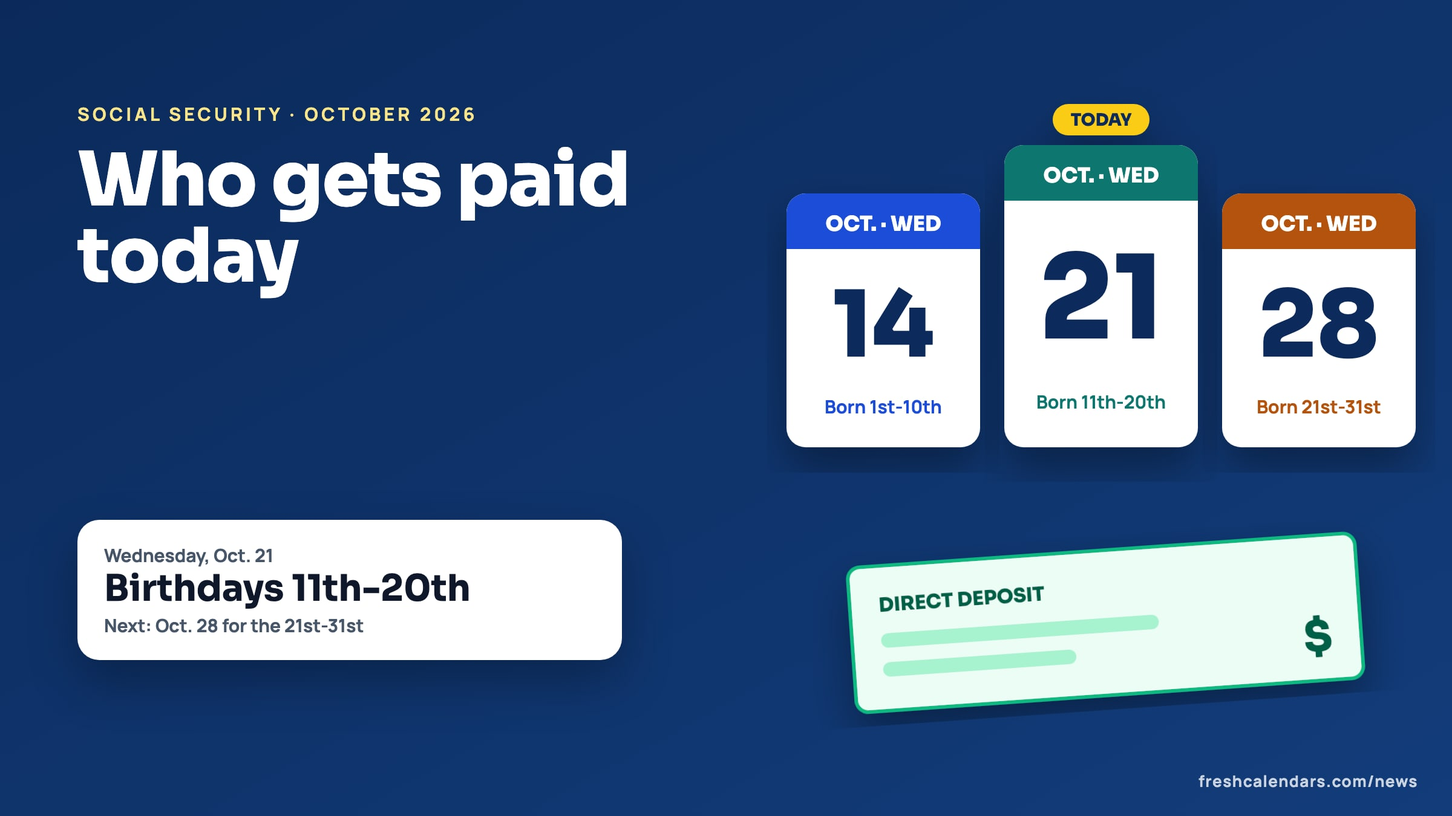
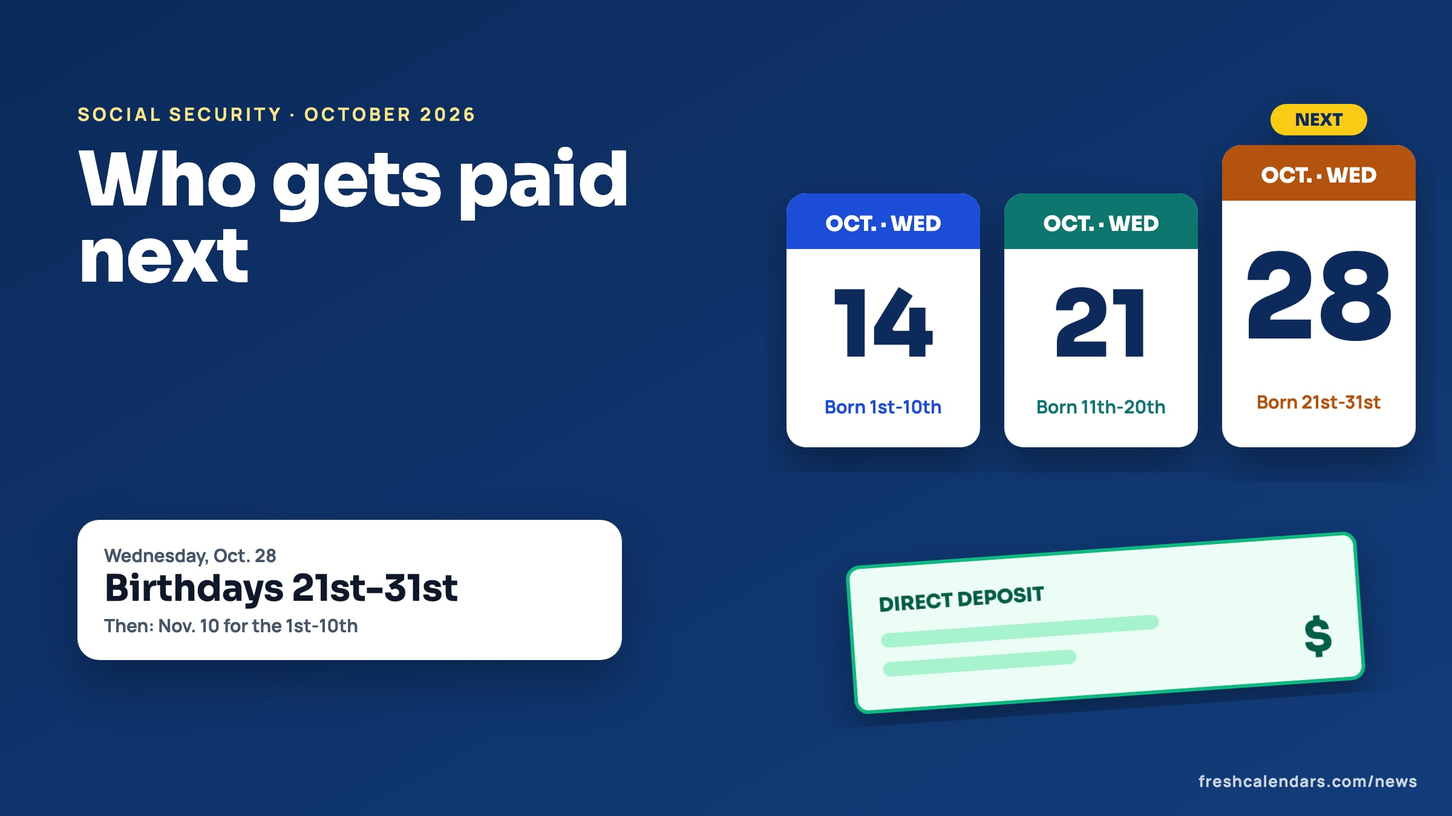
feat(news): refresh stale stories, link orphans, in-body calendar links
- Social Security payment schedule leads with the next payday (Oct. 28): new
  title, lede, summary, FAQ and hero; all dates rechecked against SSA
  Publication 05-10031 (2026 schedule).
- Orionids: title no longer says "tonight"; active through Nov. 7 and next
  showers (NASA Science Orionids/Leonids/Geminids pages).
- Voter registration Oct. 19, MCAT 2027 and GTA 6 Oct. 22 get update notes
  (Texas SOS, Michigan SOS, NYS BOE, AAMC, Rockstar Newswire, Take-Two/Business
  Wire Oct. 13). Recheck GTA 6 after Rockstar's daytime posts on Oct. 22.
- Orphan stories (punch recipe, turkey thaw, early voting now) linked from
  related stories; contextual calendar links in 10 stories.
- keydates: drop past dates, add Lyft VOTE26, Northern Taurids, turkey thaw,
  USPS international and ACA end dates from published stories.

diff --git a/packages/generator/src/ssa2026.ts b/packages/generator/src/ssa2026.ts
@@ -64,9 +64,11 @@ function sheet(fonts: string): string {
 }
 
 const W = 1200, H = 675;
+/** Raised card in the hero: the next payday. Oct. 22 update moved it from Oct. 21 (index 1) to Oct. 28. */
+const NEXT = 2;
 function hero(fonts: string): string {
   const days = [["WED", "14", "Born 1st-10th", "#1d4ed8"], ["WED", "21", "Born 11th-20th", "#0f766e"], ["WED", "28", "Born 21st-31st", "#b45309"]];
-  const cards = days.map(([w, d, l, c], i) => `<g transform="translate(${650 + i * 180},${i === 1 ? 120 : 160})" filter="url(#sh)"><rect width="160" height="${i === 1 ? 250 : 210}" rx="16" fill="#fff"/><rect width="160" height="46" rx="16" fill="${c}"/><rect y="30" width="160" height="16" fill="${c}"/><text x="80" y="31" font-family="Sora" font-size="17" font-weight="800" fill="#fff" text-anchor="middle">OCT. · ${w}</text><text x="80" y="${i === 1 ? 160 : 135}" font-family="Sora" font-size="${i === 1 ? 96 : 76}" font-weight="800" fill="#0b2a5b" text-anchor="middle">${d}</text><text x="80" y="${i === 1 ? 218 : 182}" font-family="Manrope" font-size="15" font-weight="800" fill="${c}" text-anchor="middle">${l}</text>${i === 1 ? `<rect x="40" y="-34" width="80" height="26" rx="13" fill="#facc15"/><text x="80" y="-16" font-family="Sora" font-size="14" font-weight="800" fill="#0b2a5b" text-anchor="middle">TODAY</text>` : ""}</g>`).join("");
+  const cards = days.map(([w, d, l, c], i) => `<g transform="translate(${650 + i * 180},${i === NEXT ? 120 : 160})" filter="url(#sh)"><rect width="160" height="${i === NEXT ? 250 : 210}" rx="16" fill="#fff"/><rect width="160" height="46" rx="16" fill="${c}"/><rect y="30" width="160" height="16" fill="${c}"/><text x="80" y="31" font-family="Sora" font-size="17" font-weight="800" fill="#fff" text-anchor="middle">OCT. · ${w}</text><text x="80" y="${i === NEXT ? 160 : 135}" font-family="Sora" font-size="${i === NEXT ? 96 : 76}" font-weight="800" fill="#0b2a5b" text-anchor="middle">${d}</text><text x="80" y="${i === NEXT ? 218 : 182}" font-family="Manrope" font-size="15" font-weight="800" fill="${c}" text-anchor="middle">${l}</text>${i === NEXT ? `<rect x="40" y="-34" width="80" height="26" rx="13" fill="#facc15"/><text x="80" y="-16" font-family="Sora" font-size="14" font-weight="800" fill="#0b2a5b" text-anchor="middle">NEXT</text>` : ""}</g>`).join("");
   const check = `<g transform="translate(700,470) rotate(-4)" filter="url(#sh)"><rect width="420" height="120" rx="10" fill="#ecfdf5"/><rect width="420" height="120" rx="10" fill="none" stroke="#10b981" stroke-width="3" stroke-dasharray="2 0"/><text x="24" y="38" font-family="Sora" font-size="16" font-weight="800" fill="#065f46">DIRECT DEPOSIT</text><rect x="24" y="56" width="230" height="12" rx="6" fill="#a7f3d0"/><rect x="24" y="80" width="160" height="12" rx="6" fill="#a7f3d0"/><text x="396" y="96" font-family="Sora" font-size="36" font-weight="800" fill="#065f46" text-anchor="end">$</text></g>`;
   return `<!doctype html><html><head><meta charset="utf-8"><style>${fonts}*{box-sizing:border-box}html,body{margin:0}body{width:${W}px;height:${H}px;overflow:hidden;background:#0b2a5b;font-family:Manrope,sans-serif;position:relative}
   .k{position:absolute;left:64px;top:84px;font-weight:800;font-size:15px;letter-spacing:.18em;text-transform:uppercase;color:#fde68a}
@@ -75,8 +77,8 @@ function hero(fonts: string): string {
   .card b{display:block;font-family:Sora;font-size:30px;line-height:1.05;margin:2px 0}.card span{font-size:15px;color:#475569;font-weight:700}
   .brand{position:absolute;right:28px;bottom:20px;font-size:13px;font-weight:700;letter-spacing:.06em;color:rgba(255,255,255,.78)}</style></head><body>
   <svg width="${W}" height="${H}" style="position:absolute;inset:0"><defs><filter id="sh"><feDropShadow dx="0" dy="18" stdDeviation="18" flood-opacity=".35"/></filter><linearGradient id="bg" x1="0" y1="0" x2="1" y2="1"><stop offset="0" stop-color="#0b2a5b"/><stop offset="1" stop-color="#123c7a"/></linearGradient></defs><rect width="${W}" height="${H}" fill="url(#bg)"/>${cards}${check}</svg>
-  <div class="k">Social Security · October 2026</div><div class="t">Who gets paid today</div>
-  <div class="card"><span>Wednesday, Oct. 21</span><b>Birthdays 11th-20th</b><span>Next: Oct. 28 for the 21st-31st</span></div>
+  <div class="k">Social Security · October 2026</div><div class="t">Who gets paid next</div>
+  <div class="card"><span>Wednesday, Oct. 28</span><b>Birthdays 21st-31st</b><span>Then: Nov. 10 for the 1st-10th</span></div>
   <div class="brand">freshcalendars.com/news</div></body></html>`;
 }
 

diff --git a/apps/news/src/lib/keydates.ts b/apps/news/src/lib/keydates.ts
@@ -12,9 +12,6 @@ export interface KeyDate {
 }
 
 export const KEY_DATES: KeyDate[] = [
-  { date: "2026-10-19", label: "Voter registration deadline in California, Pennsylvania and Michigan", slug: "voter-registration-deadline-october-19-2026-early-voting" },
-  { date: "2026-10-21", label: "Orionid meteor shower peaks, night of Oct. 21-22", slug: "orionid-meteor-shower-2026-peak-october-21-22" },
-  { date: "2026-10-21", label: "Social Security payday: birthdays 11th-20th", slug: "social-security-payment-schedule-october-2026-who-gets-paid-today" },
   { date: "2026-10-28", label: "Social Security payday: birthdays 21st-31st", slug: "social-security-payment-schedule-october-2026-who-gets-paid-today" },
   { date: "2026-11-10", label: "Social Security paid a day early (Veterans Day)", slug: "social-security-payment-schedule-october-2026-who-gets-paid-today" },
   { date: "2026-10-25", label: "Clocks go back in the UK and Europe", slug: "uk-europe-clocks-go-back-october-25-2026-time-difference" },
@@ -47,7 +44,6 @@ export const KEY_DATES: KeyDate[] = [
   { date: "2027-02-06", label: "Lunar New Year, Year of the Goat", slug: "lunar-new-year-2027-year-of-the-goat" },
   { date: "2027-02-08", label: "Ramadan 2027 expected to begin", slug: "ramadan-2027-calendar-dates-timetable" },
   { date: "2027-03-09", label: "Eid al-Fitr", slug: "ramadan-2027-calendar-dates-timetable" },
-  { date: "2026-10-20", label: "MCAT 2027 registration opens (Group A states)", slug: "mcat-2027-test-dates-registration-opens-october-20" },
   { date: "2026-10-23", label: "SAT registration deadline for Nov. 7", slug: "sat-act-test-dates-2026-27-registration-deadlines" },
   { date: "2026-11-07", label: "SAT test day", slug: "sat-act-test-dates-2026-27-registration-deadlines" },
   { date: "2026-11-11", label: "November LSAT begins (Nov. 11-14)", slug: "lsat-test-dates-2026-27-registration-deadlines" },
@@ -81,6 +77,11 @@ export const KEY_DATES: KeyDate[] = [
   { date: "2026-11-12", label: "GTA 6 pre-load opens; boxed edition on sale", slug: "gta-6-october-22-2026-what-is-confirmed-release-countdown" },
   { date: "2026-11-19", label: "GTA 6 launches on PS5 and Xbox Series X|S", slug: "gta-6-october-22-2026-what-is-confirmed-release-countdown" },
   { date: "2026-12-01", label: "Georgia runoff, if needed", slug: "georgia-2026-ballot-amendments-advance-voting" },
+  { date: "2026-11-03", label: "Lyft VOTE26: 50% off one ride to the polls, up to $10", slug: "free-rides-to-the-polls-2026-lyft-uber-transit" },
+  { date: "2026-11-12", label: "Northern Taurid meteor shower peaks (Nov. 11-12)", slug: "november-2026-meteor-showers-taurids-leonids" },
+  { date: "2026-11-21", label: "Start thawing a 16-20 lb turkey in the fridge (Nov. 21-22)", slug: "when-to-thaw-thanksgiving-turkey-2026" },
+  { date: "2026-12-09", label: "USPS: send-by date for international gifts (Priority Mail International)", slug: "usps-holiday-shipping-deadlines-2026" },
+  { date: "2027-01-15", label: "ACA open enrollment for 2027 ends", slug: "aca-open-enrollment-2027-dates-november-1-january-15" },
 ];
 
 /** Today's date in Eastern Time as YYYY-MM-DD. */

diff --git a/apps/news/src/content/articles/2026/10/social-security-payment-schedule-october-2026-who-gets-paid-today.md b/apps/news/src/content/articles/2026/10/social-security-payment-schedule-october-2026-who-gets-paid-today.md
@@ -1,26 +1,27 @@
 ---
-title: "Social Security October 2026 Payment Schedule: Who Gets Paid Today, Oct. 21, and When the Next Payments Arrive"
+title: "Social Security Payment Schedule: Next Payday Oct. 28, Then the Nov. 10 Veterans Day Shift and December Dates"
 seoTitle: "Social Security Payment Schedule October 2026"
-description: "Social Security pays people born on the 11th to 20th today, Wednesday, Oct. 21, 2026. Every October and November date, including the Nov. 10 holiday shift."
+description: "Social Security's next payday is Wednesday, Oct. 28, 2026, for birthdays on the 21st to 31st. Every date through December, including the Nov. 10 holiday shift."
 type: news
 publishedAt: "2026-10-21T09:20:00-04:00"
+updatedAt: "2026-10-22T03:00:00-04:00"
 authors: [news-desk]
 category: planning
 keywords: ["Social Security payment schedule October 2026", "Social Security payment today", "when is my Social Security check", "Social Security November 2026 payment dates", "SSI payment dates 2026"]
 dateline: "New York"
 hero:
   src: ../../../../assets/news/social-security-payment-schedule-october-2026-who-gets-paid-today/social-security-payment-schedule-october-2026-who-gets-paid-today.jpg
-  alt: "Social Security payment schedule October 2026: calendar cards for Wednesdays Oct. 14, 21 and 28 with Oct. 21 marked today"
+  alt: "Social Security payment schedule October 2026: calendar cards for Wednesdays Oct. 14, 21 and 28 with Oct. 28 marked as the next payday"
   title: "Social Security October 2026 payment schedule"
-  caption: "Wednesday, Oct. 21, 2026, is payday for beneficiaries born on the 11th to the 20th. Those born on the 21st to the 31st are paid Oct. 28."
+  caption: "Wednesday, Oct. 28, 2026, is the next payday, for beneficiaries born on the 21st to the 31st. Those born on the 1st to the 10th are paid next on Nov. 10."
 summary:
-  - "Today, Wednesday, Oct. 21, 2026, Social Security pays retirement, survivor and disability benefits to people born on the 11th through the 20th of the month."
-  - "Those born on the 21st through the 31st are paid next Wednesday, Oct. 28. People born on the 1st through the 10th were paid Oct. 14."
+  - "The next Social Security payment date is Wednesday, Oct. 28, 2026, for retirement, survivor and disability benefits of people born on the 21st through the 31st of the month."
+  - "People born on the 1st through the 10th were paid Oct. 14, and those born on the 11th through the 20th on Oct. 21."
   - "November's first Wednesday payment comes a day early, on Tuesday, Nov. 10, because Nov. 11 is Veterans Day. November SSI is paid Friday, Oct. 30."
   - "The 3.6% cost-of-living adjustment starts with payments made in January 2027; SSI recipients see it in the payment dated Thursday, Dec. 31, 2026."
 faq:
-  - q: "Who gets a Social Security payment today, Oct. 21, 2026?"
-    a: "People whose birthday falls on the 11th through the 20th of any month and who started benefits after April 1997 and do not also get SSI. Their payment is dated the third Wednesday of the month, Oct. 21."
+  - q: "Who got a Social Security payment on Oct. 21, 2026?"
+    a: "People whose birthday falls on the 11th through the 20th of any month and who started benefits after April 1997 and do not also get SSI. Their payment was dated the third Wednesday of the month, Oct. 21."
   - q: "When is the next Social Security payment in October 2026?"
     a: "Wednesday, Oct. 28, for people born on the 21st through the 31st. After that, November SSI is paid Friday, Oct. 30."
   - q: "Why is a November Social Security payment on Tuesday, Nov. 10?"
@@ -65,11 +66,13 @@ downloads:
 draft: false
 ---
 
-**Today, Wednesday, Oct. 21, 2026, is payday for Social Security beneficiaries born on the 11th through the 20th of the month.** The Social Security Administration (SSA) pays retirement, survivor and disability benefits on one of three Wednesdays, depending on your birthday, and Oct. 21 is the third Wednesday of October. One more round goes out next week, on Oct. 28. November brings two date changes: a Veterans Day shift and an early Supplemental Security Income (SSI) payment. Every date below is from SSA's published 2026 schedule.
+<p class="callout"><b>Last updated Oct. 22, 2026, 3:00 a.m. ET.</b> The Oct. 21 payments have gone out. This story now leads with the next payday, Oct. 28, and every date below was checked again against Social Security's published 2026 payment schedule.</p>
 
-## Who gets paid today
+**The next Social Security payday is Wednesday, Oct. 28, 2026, for beneficiaries born on the 21st through the 31st of the month.** The Social Security Administration (SSA) pays retirement, survivor and disability benefits on one of three Wednesdays, depending on your birthday: people born on the 1st to the 10th were paid Oct. 14, and those born on the 11th to the 20th on Oct. 21. November brings two date changes: a Veterans Day shift and an early Supplemental Security Income (SSI) payment. Every date below is from SSA's published 2026 schedule.
 
-If your birthday is on the 11th through the 20th, your October payment is dated today. That applies to retirement, survivor and disability benefits for people who started receiving Social Security after April 1997 and do not also get SSI.
+## Who gets paid next
+
+If your birthday is on the 21st through the 31st, your October payment is dated Wednesday, Oct. 28, the fourth Wednesday of the month. That applies to retirement, survivor and disability benefits for people who started receiving Social Security after April 1997 and do not also get SSI.
 
 The October payment is your benefit for September: Social Security pays each month's benefit in the following month.
 
@@ -80,8 +83,8 @@ The October payment is your benefit for September: Social Security pays each mon
 | Thursday, Oct. 1 | SSI for October |
 | Friday, Oct. 2 | Benefits started before May 1997, or Social Security plus SSI (the 3rd is a Saturday) |
 | Wednesday, Oct. 14 | Birthdays on the 1st to the 10th |
-| **Wednesday, Oct. 21** | **Birthdays on the 11th to the 20th** |
-| Wednesday, Oct. 28 | Birthdays on the 21st to the 31st |
+| Wednesday, Oct. 21 | Birthdays on the 11th to the 20th |
+| **Wednesday, Oct. 28** | **Birthdays on the 21st to the 31st** |
 | Friday, Oct. 30 | SSI for November (Nov. 1 is a Sunday) |
 
 ## November 2026 payment schedule

diff --git a/apps/news/src/content/articles/2026/10/voter-registration-deadline-october-19-2026-early-voting.md b/apps/news/src/content/articles/2026/10/voter-registration-deadline-october-19-2026-early-voting.md
@@ -4,6 +4,7 @@ seoTitle: "Voter Registration Deadline Oct. 19, 2026: State Guide"
 description: "Oct. 19 is the voter registration deadline in California, Pennsylvania and Michigan for the Nov. 3 election. Early voting opens in Texas and Connecticut."
 type: news
 publishedAt: "2026-10-18T08:30:00-04:00"
+updatedAt: "2026-10-22T03:00:00-04:00"
 authors: [news-desk]
 category: planning
 keywords: ["voter registration deadline October 19 2026", "register to vote Pennsylvania deadline", "California voter registration deadline 2026", "Texas early voting 2026", "Election Day November 3 2026"]
@@ -63,6 +64,8 @@ draft: false
 related: [sample-ballot-by-zip-code-2026-texas-ballot, nyc-public-schools-calendar-2026-27-breaks-holidays]
 ---
 
+<p class="callout"><b>Last updated Oct. 22, 2026, 3:00 a.m. ET.</b> The Oct. 19 deadlines have passed. Michigan voters can still register in person at their local clerk's office with proof of residency through Election Day, and California offers conditional registration at county elections offices through Nov. 3. Pennsylvania has no registration after Oct. 19. Early voting runs through Oct. 30 in Texas and Nov. 1 in Connecticut, and opens Saturday, Oct. 24, in Michigan and New York; see <a href="/news/early-voting-2026-which-states-are-voting-now/">which states are voting now</a>.</p>
+
 **Monday, Oct. 19, 2026** is the last day to register to vote in California and Pennsylvania for the Nov. 3 general election, and the last day to register online or by mail in Michigan. The same day, early in-person voting opens in Texas and Connecticut. Election Day is Tuesday, Nov. 3.
 
 ## Deadlines that fall on Monday
@@ -109,4 +112,4 @@ Deadlines differ by state, and some states allow same-day registration while oth
 - If you plan to vote early, note your county's early voting locations and hours.
 - Look up your [sample ballot by ZIP code](/news/sample-ballot-by-zip-code-2026-texas-ballot/) and copy your choices onto paper before you go.
 - If you vote by mail, check your state's deadline for applying and for returning the ballot; they are not the same date.
-- Write Nov. 3 on your calendar, along with any early voting day you plan to use.
+- Write Nov. 3 on a [November 2026 printable calendar](/november-calendars.html), along with any early voting day you plan to use; a [weekly planner](/printable-weekly-calendar.html) helps for the final week.

diff --git a/apps/news/src/content/articles/2026/10/orionid-meteor-shower-2026-peak-october-21-22.md b/apps/news/src/content/articles/2026/10/orionid-meteor-shower-2026-peak-october-21-22.md
@@ -1,10 +1,10 @@
 ---
-title: "Orionid Meteor Shower 2026 Viewing Times: When and How to Watch Tonight's Peak, City by City"
+title: "Orionid Meteor Shower 2026 Viewing Times: Peak Morning Oct. 22 and How to Watch Through Nov. 7"
 seoTitle: "Orionid Meteor Shower 2026: Viewing Times, How to Watch"
 description: "Orionid meteor shower 2026 viewing times: the peak is the night of Oct. 21-22. Watch after moonset, about 3-4 a.m., until dawn. Times for 12 U.S. cities."
 type: news
 publishedAt: "2026-10-18T04:10:00-04:00"
-updatedAt: "2026-10-21T01:05:00-04:00"
+updatedAt: "2026-10-22T03:00:00-04:00"
 authors: [news-desk]
 category: sky-events
 keywords: ["Orionid meteor shower 2026 viewing times", "Orionid meteor shower tonight", "how to watch the Orionids", "Orionids peak time 2026", "meteor shower October 2026"]
@@ -48,6 +48,12 @@ sources:
   - title: "Orionids"
     url: "https://science.nasa.gov/solar-system/meteors-meteorites/orionids/"
     publisher: "NASA Science"
+  - title: "Leonids"
+    url: "https://science.nasa.gov/solar-system/meteors-meteorites/leonids/"
+    publisher: "NASA Science"
+  - title: "Geminids"
+    url: "https://science.nasa.gov/solar-system/meteors-meteorites/geminids/"
+    publisher: "NASA Science"
   - title: "Orionid meteor shower 2026: when and where to see it in the UK"
     url: "https://www.rmg.co.uk/stories/space-astronomy/orionid-meteor-shower-2026-when-where-see-it-uk"
     publisher: "Royal Museums Greenwich"
@@ -81,6 +87,8 @@ downloads:
     pages: 1
 draft: false
 ---
+
+<p class="callout"><b>Last updated Oct. 22, 2026, 3:00 a.m. ET.</b> The peak is the morning of Thursday, Oct. 22, from moonset until dawn, and the morning of Oct. 23 is nearly as good. NASA lists the Orionids as active through Nov. 7, with fewer meteors each night. Next come the Taurids in early November, the Leonids on the night of Nov. 16-17 and the Geminids on Dec. 13-14; see <a href="/news/november-2026-meteor-showers-taurids-leonids/">November 2026 meteor showers</a>.</p>
 
 <p class="callout"><b>The golden window: watch from moonset to dawn.</b> The moon is about 86% lit and bright until it sets, around 3 to 4 a.m. local time in most U.S. cities on Thursday, Oct. 22. From then until dawn twilight begins, about 5:15 to 6:30 a.m., the sky is dark and the Orionids are at their best.</p>
 

diff --git a/apps/news/src/content/articles/2026/10/halloween-2026-saturday-sunset-trick-or-treat-times.md b/apps/news/src/content/articles/2026/10/halloween-2026-saturday-sunset-trick-or-treat-times.md
@@ -55,7 +55,7 @@ internalLinks:
     label: "When does daylight saving time end"
   - href: "/october-calendars.html"
     label: "October 2026 printable calendar"
-related: [daylight-saving-time-ends-november-1-2026, day-of-the-dead-2026-dia-de-los-muertos-dates]
+related: [halloween-2026-what-day-trick-or-treating-start, daylight-saving-time-ends-november-1-2026, day-of-the-dead-2026-dia-de-los-muertos-dates]
 downloads:
   - group: "Halloween 2026 printable"
     title: "Halloween 2026 Sunset and Dark by City"
@@ -117,6 +117,6 @@ Halloween is not a federal holiday, so nothing closes for it. The 11 federal hol
 
 ## What follows Halloween
 
-Halloween weekend runs straight into Día de los Muertos on Nov. 1 and 2; our [Day of the Dead 2026 guide](/news/day-of-the-dead-2026-dia-de-los-muertos-dates/) has the dates and traditions. Election Day follows on Tuesday, Nov. 3. For the date of Halloween in other years, see [when is Halloween](/when-is/halloween/), and plan the week on an [October 2026 calendar](/october-calendars.html). The free printable below lists sunset, dark and moonrise for all 16 cities with room to plan your route.
+Halloween weekend runs straight into Día de los Muertos on Nov. 1 and 2; our [Day of the Dead 2026 guide](/news/day-of-the-dead-2026-dia-de-los-muertos-dates/) has the dates and traditions. Election Day follows on Tuesday, Nov. 3. For the date of Halloween in other years, see [when is Halloween](/when-is/halloween/), and plan the week on an [October 2026 calendar](/october-calendars.html). The free printable below lists sunset, dark and moonrise for all 16 cities with room to plan your route. Hosting at home instead? Our [witches' brew punch recipe](/news/halloween-party-ideas-2026-witches-brew-punch/) is nonalcoholic and keeps the dry ice out of the drink.
 
-For everything else on the calendar this week, see [what day it is on Oct. 20](/news/october-20-2026-what-day-holidays-observances/).
+Trick-or-treat hours are set town by town; our story on [what time trick-or-treating starts](/news/halloween-2026-what-day-trick-or-treating-start/) lists published schedules. For everything else on the calendar this week, see [what day it is on Oct. 20](/news/october-20-2026-what-day-holidays-observances/).

diff --git a/apps/news/src/content/articles/2026/10/gta-6-october-22-2026-what-is-confirmed-release-countdown.md b/apps/news/src/content/articles/2026/10/gta-6-october-22-2026-what-is-confirmed-release-countdown.md
@@ -4,6 +4,7 @@ seoTitle: "GTA 6 Oct. 22 News: What's Confirmed Before Nov. 19"
 description: "Rockstar has announced nothing for Thursday, Oct. 22. What is official on Grand Theft Auto VI: the Nov. 19 launch, $79.99 price and Nov. 12 pre-load."
 type: news
 publishedAt: "2026-10-20T15:00:00-04:00"
+updatedAt: "2026-10-22T03:00:00-04:00"
 authors: [news-desk]
 category: retail-dates
 keywords: ["GTA 6 October 22", "GTA 6 release date", "GTA 6 preload date", "GTA 6 news this week", "GTA 6 countdown"]
@@ -34,6 +35,10 @@ faq:
   - q: "What is GTA 6 rated?"
     a: "M for Mature 17+ by the Entertainment Software Rating Board, for blood and gore, intense violence, mature humor, nudity, strong language, strong sexual content and use of drugs and alcohol, with in-game purchases."
 sources:
+  - title: "Take-Two Interactive Software, Inc. to Report Second Quarter Fiscal Year 2027 Results on Monday, November 9, 2026"
+    url: "https://www.businesswire.com/news/home/20261013510921/en/"
+    publisher: "Take-Two Interactive Software"
+    date: "2026-10-13"
   - title: "Rockstar Games Announces Pre-Orders for Grand Theft Auto VI"
     url: "https://ir.take2games.com/node/32311/pdf"
     publisher: "Take-Two Interactive Software"
@@ -93,6 +98,8 @@ downloads:
     pages: 1
 draft: false
 ---
+
+<p class="callout"><b>Last checked Oct. 22, 2026, 3:00 a.m. ET.</b> The newest Grand Theft Auto VI post on the Rockstar Newswire is still the Launch Trailer from Oct. 15. Take-Two has confirmed it reports quarterly results on Monday, Nov. 9, after the market closes.</p>
 
 **Rockstar Games has not announced anything for Thursday, Oct. 22.** The date is getting attention because Rockstar has posted Grand Theft Auto (GTA) VI news on a string of recent Thursdays, most recently the Launch Trailer on Oct. 15, and gaming sites including GameRant expect the next update on Oct. 22. Rockstar has not said it follows a weekly schedule. What is official is the calendar: the game launches Thursday, Nov. 19, 2026, on PlayStation 5 and Xbox Series X|S, and pre-loading opens a week earlier.
 

diff --git a/apps/news/src/content/articles/2026/10/mail-ballot-deadlines-2026-by-state.md b/apps/news/src/content/articles/2026/10/mail-ballot-deadlines-2026-by-state.md
@@ -47,7 +47,7 @@ internalLinks:
     label: "November 2026 printable calendar"
   - href: "/october-calendars.html"
     label: "October 2026 printable calendar"
-related: [what-time-do-polls-close-election-day-2026, sample-ballot-by-zip-code-2026-texas-ballot, usps-holiday-shipping-deadlines-2026]
+related: [what-time-do-polls-close-election-day-2026, sample-ballot-by-zip-code-2026-texas-ballot, early-voting-2026-which-states-are-voting-now]
 downloads:
   - group: "Election 2026 printables"
     title: "Mail Ballot Deadlines, Nov. 3, 2026"
@@ -120,4 +120,4 @@ Do not wait on a postmark in a grace-period state either. Postal facilities do n
 
 Voters covered by the federal overseas voting law often have different, more generous deadlines. Check with your state election office or the Federal Voting Assistance Program.
 
-Late-arriving ballots are one reason some states count for days; see [when we will know the results](/news/when-will-we-know-election-results-2026-midterms/). For poll hours on Election Day, see [what time polls close in every state](/news/what-time-do-polls-close-election-day-2026/), and to see your full ballot first, read our guide to [finding your sample ballot](/news/sample-ballot-by-zip-code-2026-texas-ballot/). Mark the mailing deadline on our [October](/october-calendars.html) and [November](/november-calendars.html) printable calendars.
+Late-arriving ballots are one reason some states count for days; see [when we will know the results](/news/when-will-we-know-election-results-2026-midterms/). For poll hours on Election Day, see [what time polls close in every state](/news/what-time-do-polls-close-election-day-2026/), and to see your full ballot first, read our guide to [finding your sample ballot](/news/sample-ballot-by-zip-code-2026-texas-ballot/). If you would rather vote in person before Nov. 3, see [which states have early voting open now](/news/early-voting-2026-which-states-are-voting-now/). Mark the mailing deadline on our [October](/october-calendars.html) and [November](/november-calendars.html) printable calendars.

diff --git a/apps/news/src/content/articles/2026/10/why-thanksgiving-2026-is-november-26.md b/apps/news/src/content/articles/2026/10/why-thanksgiving-2026-is-november-26.md
@@ -119,11 +119,12 @@ Canadian Thanksgiving falls on the second Monday of October. In 2026 it was Mond
 
 ## Plan the week
 
-- Mark Thursday, Nov. 26 and Friday, Nov. 27 on your calendar, along with any school closures on Wednesday, Nov. 25.
+- Mark Thursday, Nov. 26 and Friday, Nov. 27 on a [November 2026 printable calendar](/november-calendars.html), along with any school closures on Wednesday, Nov. 25.
 - Order groceries and book travel early; the Tuesday and Wednesday before the holiday are usually the busiest.
+- If your turkey is frozen, start thawing it in the fridge days ahead; our [turkey thawing timeline](/news/when-to-thaw-thanksgiving-turkey-2026/) gives the start date for each weight.
 - Mail cards or packages by Tuesday, Nov. 24 if they need to arrive before the holiday.
 - If you trade stocks, remember the 1:00 p.m. ET close on Friday.
 - Check store hours before you go: [Costco closes on Thanksgiving](/news/costco-holiday-hours-closures-2026-2027/), [Black Friday 2026 store hours](/news/black-friday-2026-store-hours-walmart-target-best-buy/) lists who opens when on Nov. 27, and the [USPS holiday shipping deadlines](/news/usps-holiday-shipping-deadlines-2026/) list the last mailing days for December gifts.
 - See everything else this month in [November 2026 important dates](/news/november-2026-important-dates-days-until/).
 
-Thanksgiving is one of two federal holidays this month; the other is [Veterans Day on Wednesday, Nov. 11](/news/veterans-day-2026-wednesday-november-11/). For next year's dates, including Thanksgiving on Nov. 25, 2027, see the [2027 federal holiday list](/news/federal-holidays-2027-observed-dates-list/).
+Thanksgiving is one of two federal holidays this month; the other is [Veterans Day on Wednesday, Nov. 11](/news/veterans-day-2026-wednesday-november-11/). For next year's dates, including Thanksgiving on Nov. 25, 2027, see the [2027 federal holiday list](/news/federal-holidays-2027-observed-dates-list/), or check [when Thanksgiving falls](/when-is/thanksgiving/) in any year.

diff --git a/apps/news/src/content/articles/2026/10/what-time-do-polls-close-election-day-2026.md b/apps/news/src/content/articles/2026/10/what-time-do-polls-close-election-day-2026.md
@@ -107,6 +107,6 @@ Closing times shape election night. The first results usually appear within an h
 
 ## Before you go
 
-Find your polling place and see your exact ballot before Election Day; our guide to [finding your sample ballot by ZIP code](/news/sample-ballot-by-zip-code-2026-texas-ballot/) explains how. Election Day is not a federal holiday, but some states give workers time off to vote and 11 make it a state holiday; see [what's open and closed on Election Day](/news/is-election-day-a-holiday-2026-whats-open/). Remember that clocks [fall back on Nov. 1](/when-is/daylight-savings/), two days earlier. After polls close, see [when results are expected](/news/when-will-we-know-election-results-2026-midterms/) state by state.
+Find your polling place and see your exact ballot before Election Day; our guide to [finding your sample ballot by ZIP code](/news/sample-ballot-by-zip-code-2026-texas-ballot/) explains how. If you need a ride, see our list of [free and discounted rides to the polls](/news/free-rides-to-the-polls-2026-lyft-uber-transit/). Election Day is not a federal holiday, but some states give workers time off to vote and 11 make it a state holiday; see [what's open and closed on Election Day](/news/is-election-day-a-holiday-2026-whats-open/). Remember that clocks [fall back on Nov. 1](/when-is/daylight-savings/), two days earlier. After polls close, see [when results are expected](/news/when-will-we-know-election-results-2026-midterms/) state by state.
 
 Mark the day on our [November 2026 printable calendar](/november-calendars.html) or a [weekly planner](/printable-weekly-calendar.html), and print the one-page closing-time chart below.

diff --git a/apps/news/src/content/articles/2026/10/early-voting-starts-october-24-michigan-new-york-2026.md b/apps/news/src/content/articles/2026/10/early-voting-starts-october-24-michigan-new-york-2026.md
@@ -126,4 +126,4 @@ The schedule is from the NYC Board of Elections and applies to all five boroughs
 
 ## Make a plan
 
-Our free one-page plan lists both states' dates and rules, New York City's hours, boxes for your site, day and time, and what to bring. Mark your day on our [October 2026 printable calendar](/october-calendars.html) or [November 2026 calendar](/november-calendars.html), or plan the week on a [weekly planner](/printable-weekly-calendar.html). Mail ballot rules for every state are in our [mail ballot deadlines list](/news/mail-ballot-deadlines-2026-by-state/), and the races on the ballot nationwide are in the [2026 midterm tracker](/news/2026-midterm-elections-whats-on-the-ballot-results-tracker/).
+Our free one-page plan lists both states' dates and rules, New York City's hours, boxes for your site, day and time, and what to bring. Mark your day on our [October 2026 printable calendar](/october-calendars.html) or [November 2026 calendar](/november-calendars.html), or plan the week on a [weekly planner](/printable-weekly-calendar.html). Mail ballot rules for every state are in our [mail ballot deadlines list](/news/mail-ballot-deadlines-2026-by-state/), and the races on the ballot nationwide are in the [2026 midterm tracker](/news/2026-midterm-elections-whats-on-the-ballot-results-tracker/). For states where early voting is already open, see [which states are voting now](/news/early-voting-2026-which-states-are-voting-now/).

diff --git a/apps/news/src/content/articles/2026/10/2026-midterm-elections-whats-on-the-ballot-results-tracker.md b/apps/news/src/content/articles/2026/10/2026-midterm-elections-whats-on-the-ballot-results-tracker.md
@@ -117,4 +117,4 @@ Polls close from 6 p.m. Eastern in parts of Indiana and Kentucky to 1 a.m. Easte
 
 The free two-page printable below lists every Senate and governor's race with the time the state's polls close in Eastern Time, plus blank columns to write in the winner and when the race was called. Keep it next to the TV or your phone on election night, and read [when results are expected in each state](/news/when-will-we-know-election-results-2026-midterms/) before you settle in; and use our [November](/november-calendars.html) and [December](/december-calendars.html) printable calendars for the dates that follow.
 
-Not registered yet? California and Michigan, among other states, still allow registration in person through Election Day; see the [voter registration deadline report](/news/voter-registration-deadline-october-19-2026-early-voting/).
+Not registered yet? California and Michigan, among other states, still allow registration in person through Election Day; see the [voter registration deadline report](/news/voter-registration-deadline-october-19-2026-early-voting/). Early in-person voting is already open in Texas, Connecticut and North Carolina; see [which states are voting now](/news/early-voting-2026-which-states-are-voting-now/). If you need a way to get there, our list of [free and discounted rides to the polls](/news/free-rides-to-the-polls-2026-lyft-uber-transit/) covers Lyft, Uber and transit.
